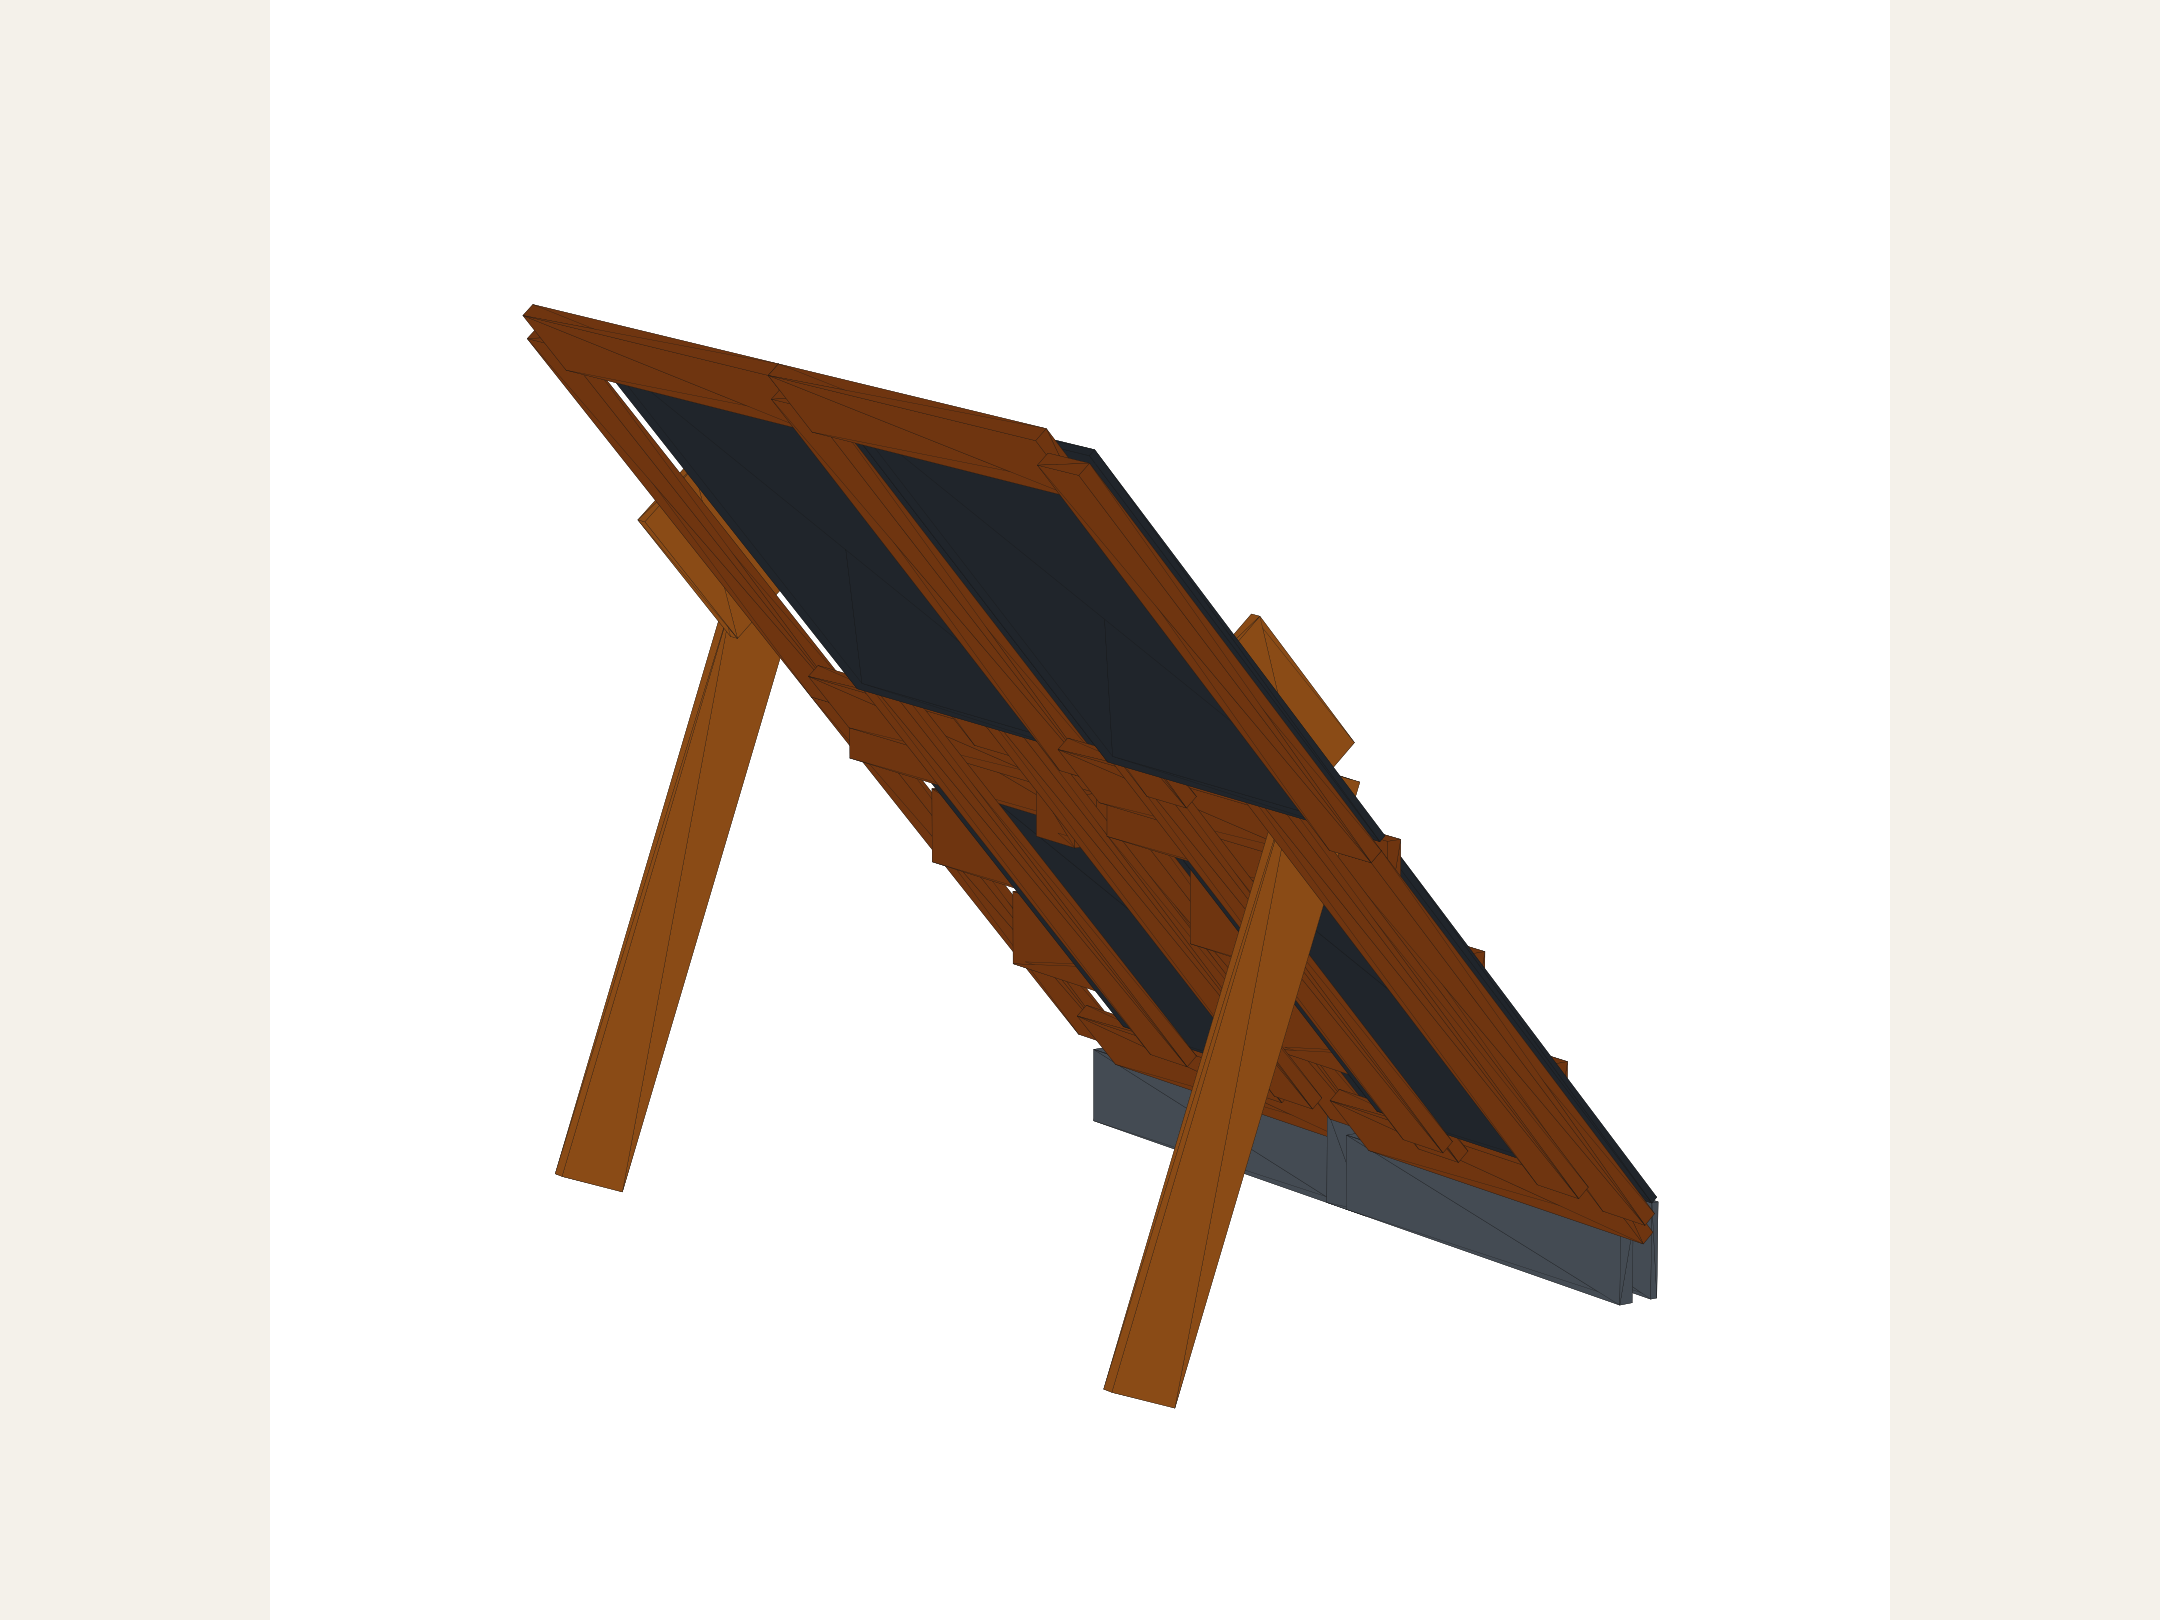
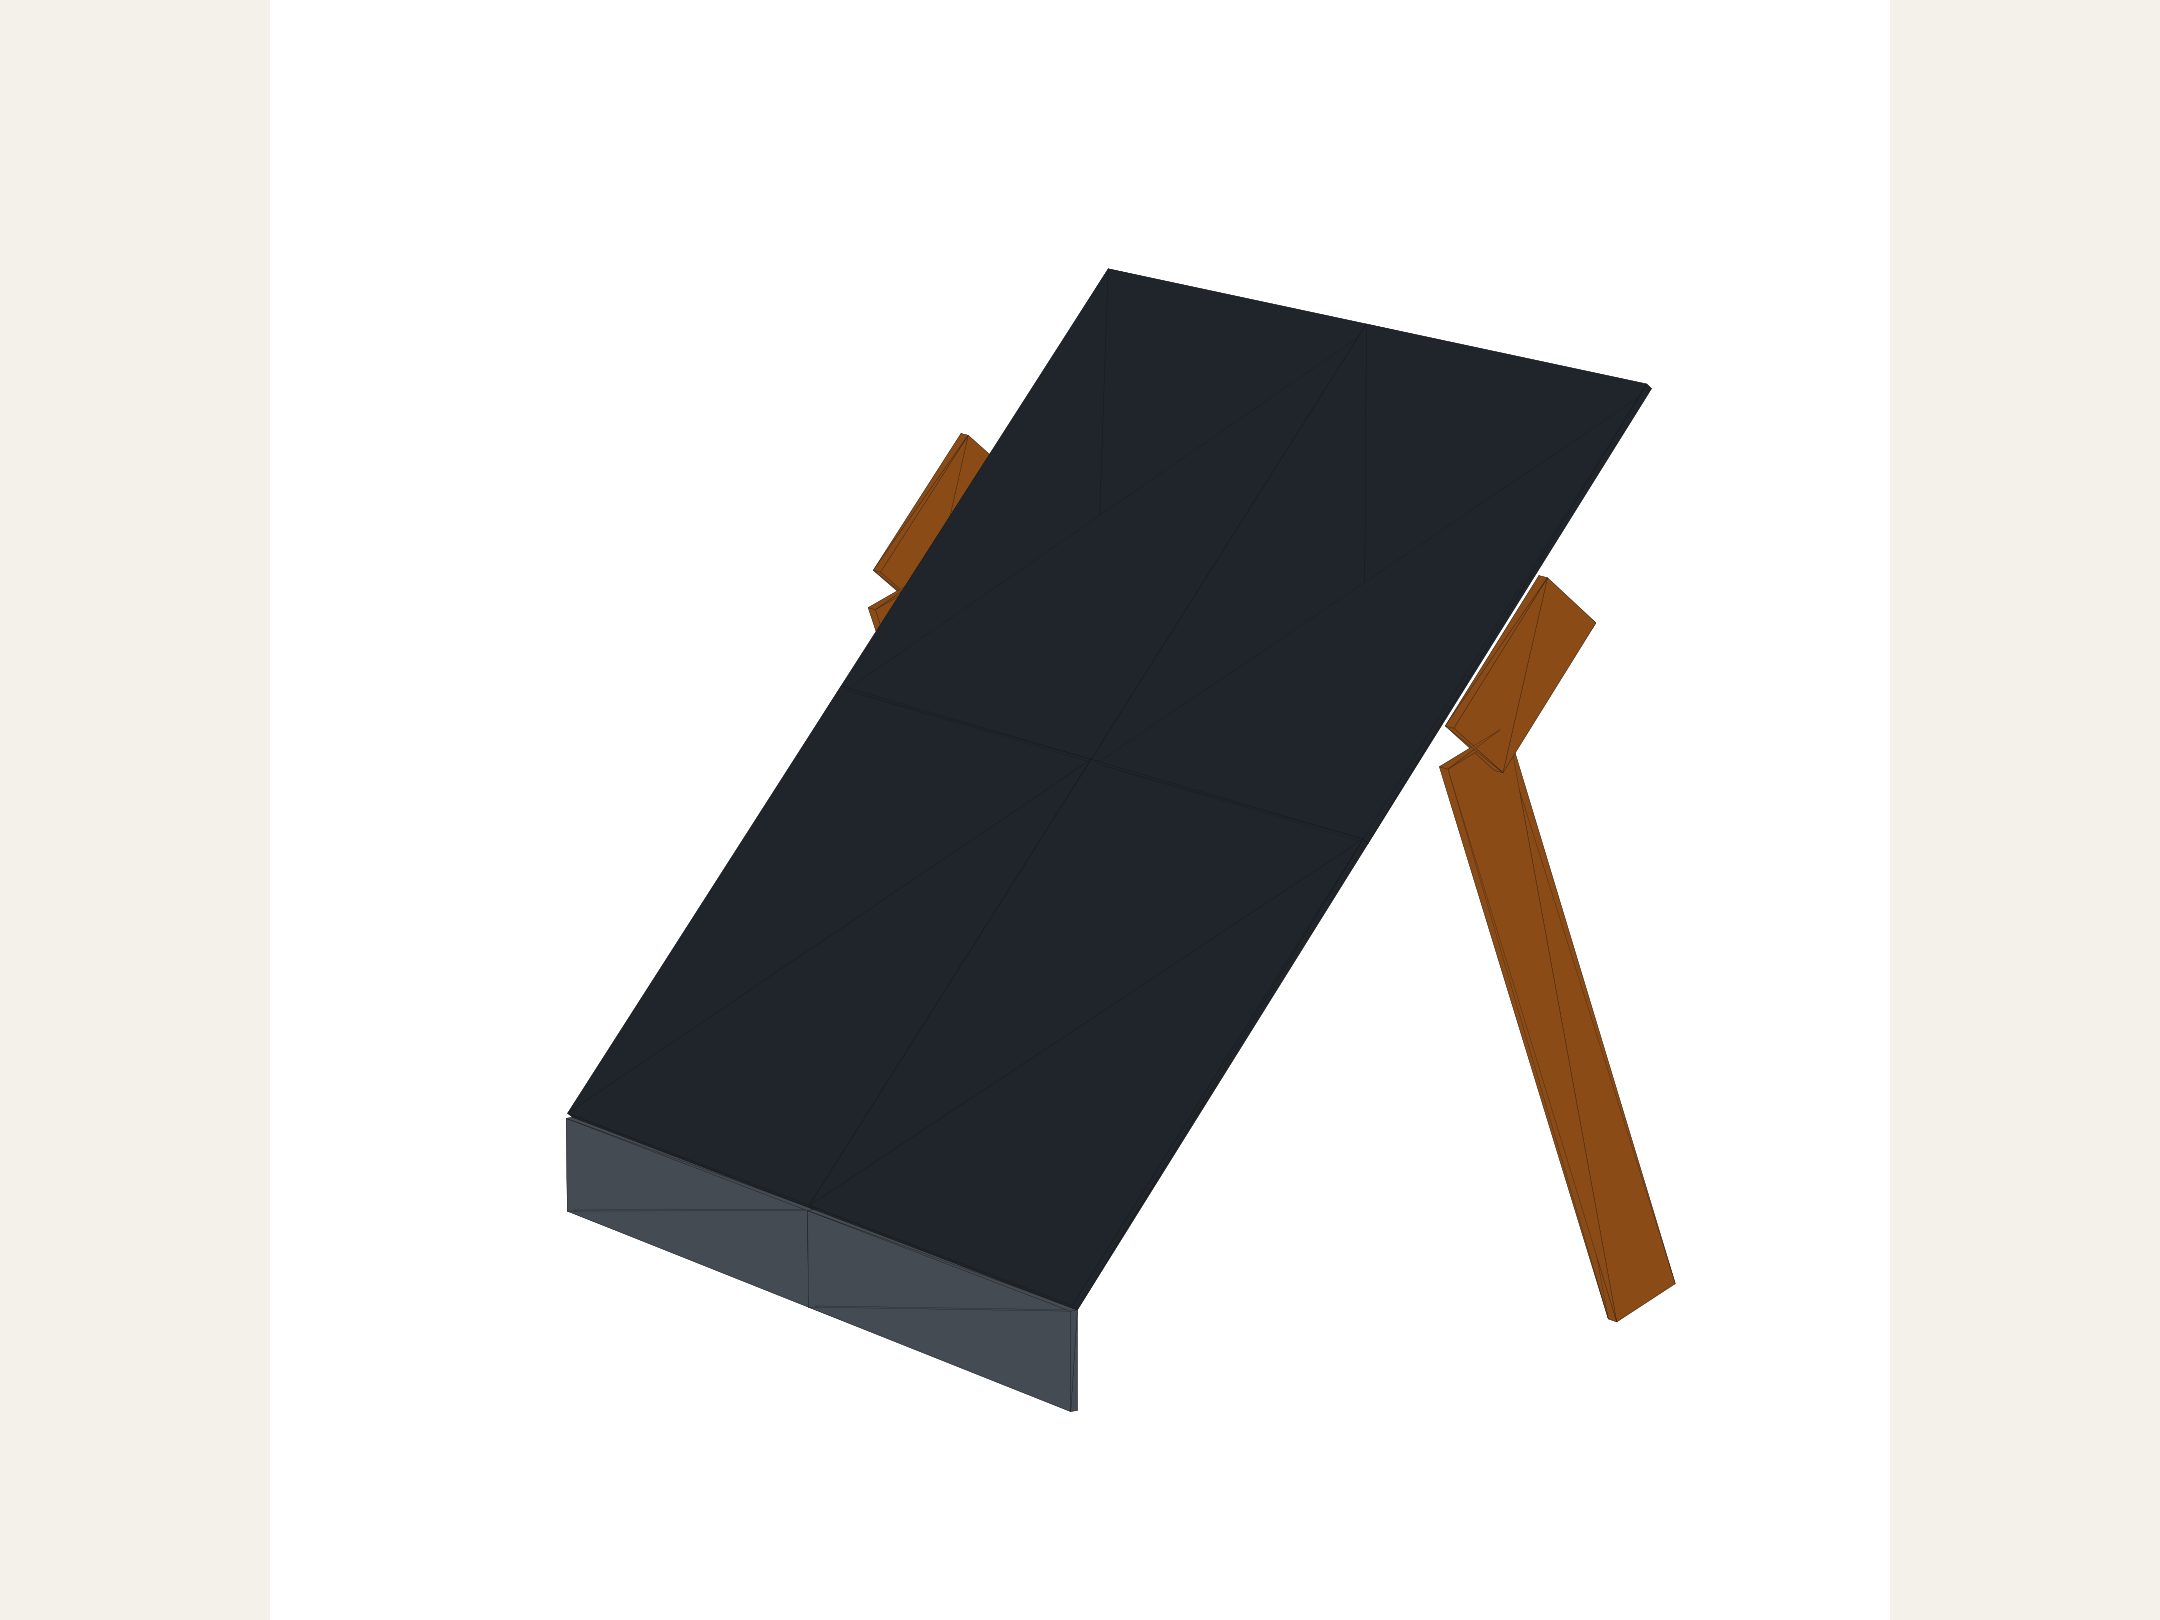
fix: present v1 CAD render from climbing face

Changed region(s): [[0.2481, 0.1543, 0.7755, 0.8642]]

diff --git a/mini_moonboard/export.py b/mini_moonboard/export.py
@@ -178,7 +178,13 @@ def export_v1_cad_render(output_dir: Path) -> Path:
     figure = plt.figure(figsize=(12, 9), facecolor="#f4f1ea")
     axes = figure.add_subplot(projection="3d")
     colors = {"main": "#20252b", "kicker": "#444b53", "leg": "#8a4b16", "face": "#6f3510"}
+    # Matplotlib cannot depth-sort separate tessellated collections reliably.
+    # This README view intentionally presents the front-visible board, kicker,
+    # and exterior legs; the interactive viewer retains every assembly solid.
+    front_visible = ("main_", "kicker_left", "kicker_right", "leg_left", "leg_right")
     for child in build_v1_concept().children:
+        if not child.name.startswith(front_visible):
+            continue
         shape = child.obj if not hasattr(child.obj, "val") else child.obj.val()
         vertices, triangles = shape.tessellate(2.0)
         faces = [[vertices[index].toTuple() for index in triangle] for triangle in triangles]
@@ -187,7 +193,7 @@ def export_v1_cad_render(output_dir: Path) -> Path:
     axes.set_box_aspect((2438.4, 1700, 2100))
     # Face the climbing surface from the front-right at a shallow elevation;
     # rear rails and hockey-stick legs remain visible without obscuring it.
-    axes.view_init(elev=12, azim=145)
+    axes.view_init(elev=12, azim=-35)
     axes.set_axis_off()
     axes.set_xlim(-1500, 1500)
     axes.set_ylim(-100, 1700)
